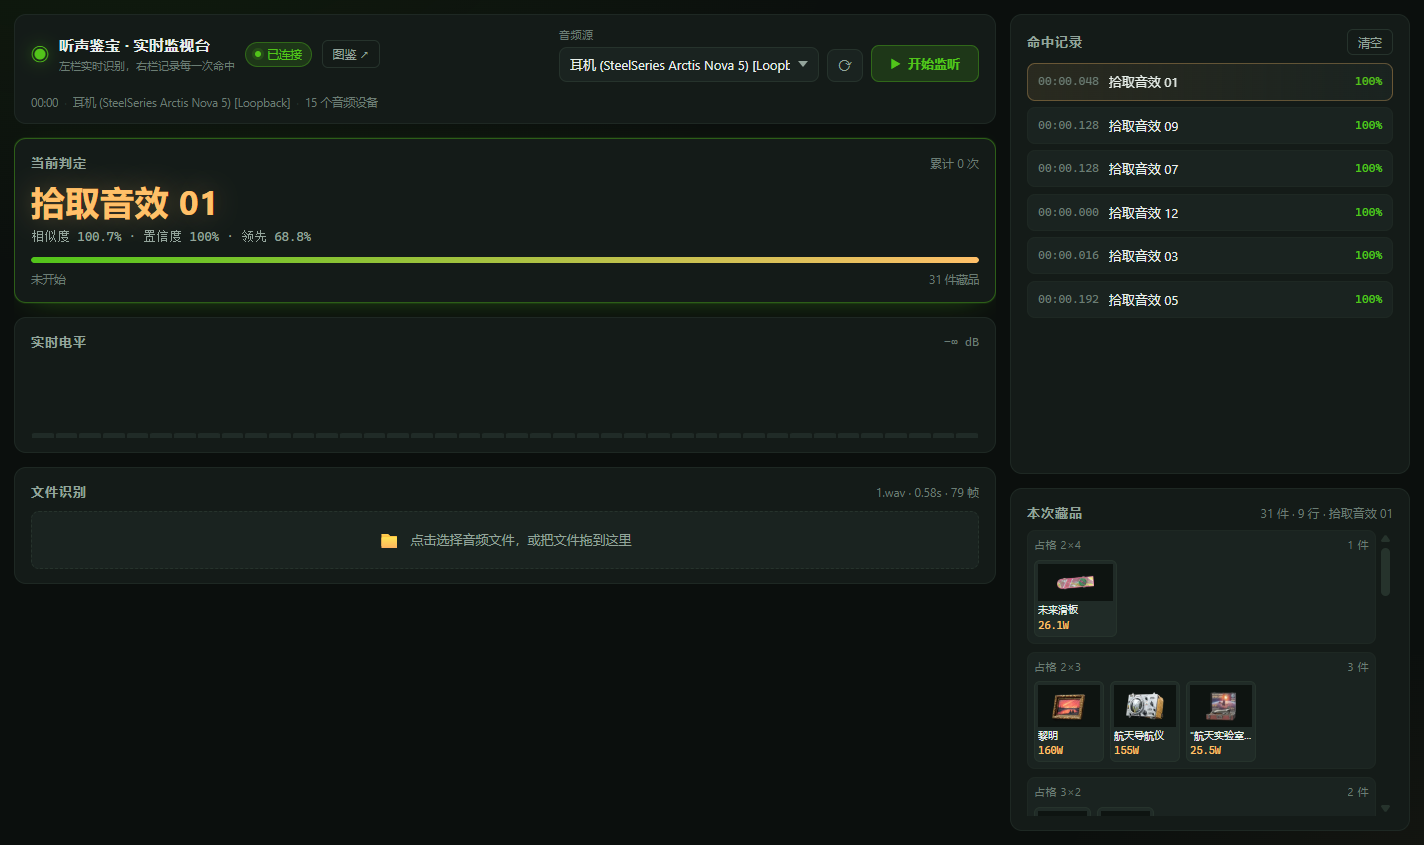
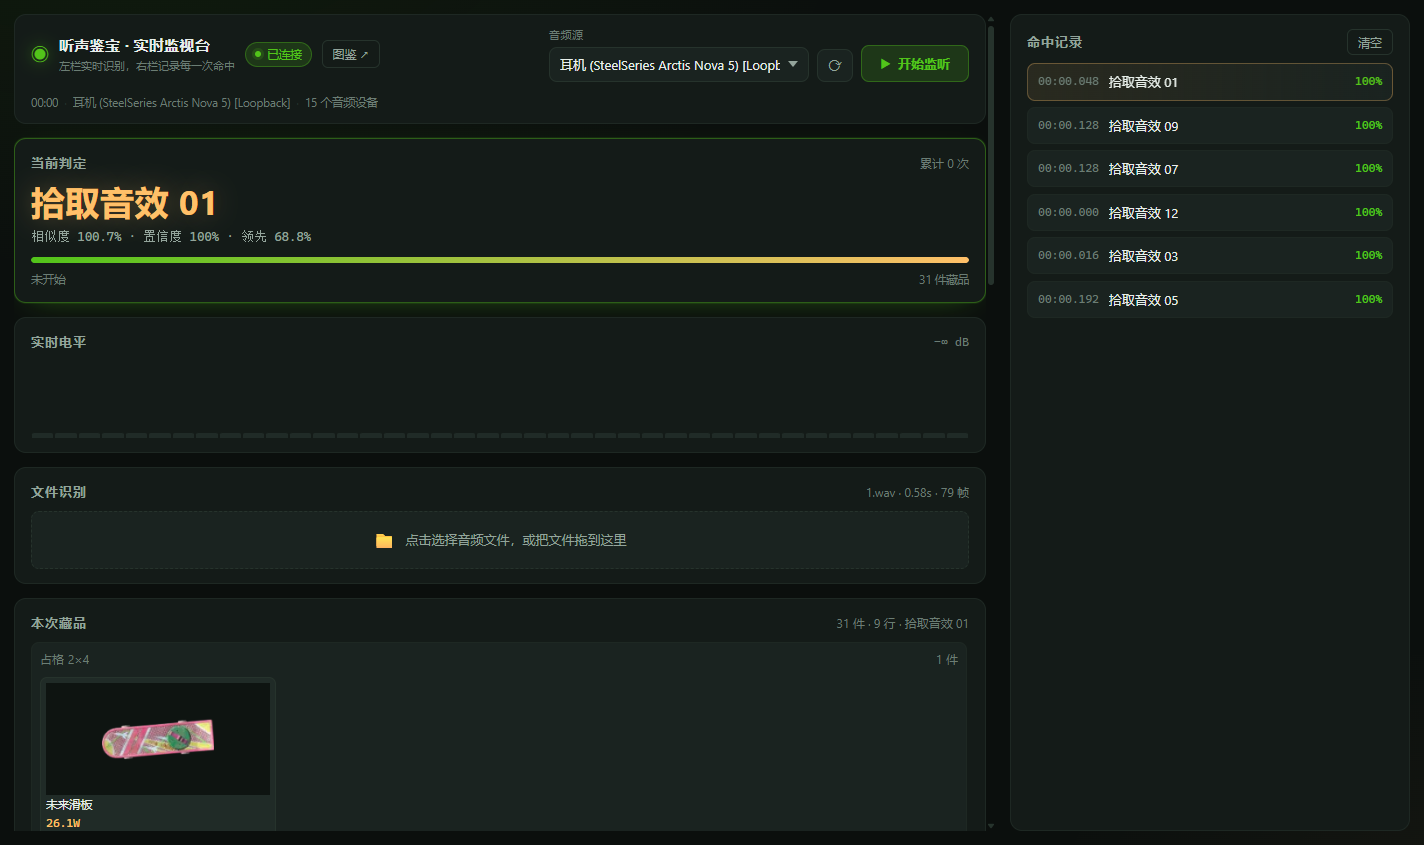
监视台：本次藏品搬到左栏并按占格等比放大
用户反馈「本次藏品放不太清楚」——根因是面板挤在 400px 右栏里，
卡片宽度写死 44+(cols-1)*13 像素，最大的 2x4 也只有 83px。

- live.html：本次藏品从右栏移到左栏文件识别下面，右栏只留命中记录
- live.css：新增 --stash-unit（左栏 56px / 窄屏 30px）作为「一个占格的边长」，
  卡片宽度改由 calc() 按占格算，2x4 变成 236px 宽、3x2 是 124x217，
  和游戏背包里的形状比例一致
- live.js：buildStashTile 用 calc(var(--stash-unit) * cols + 12px)，
  12px 是内边距 5+5 加边框 1+1
- index.html：图鉴页同样把本次藏品挪到文件识别下面，两端观感对齐
- tests/live_page_e2e.mjs：删掉「右栏从上到下 hits -> stash」这条已失效的断言，
  换成「右栏只剩命中记录」「藏品面板在文件识别下方且 --stash-unit >= 40px」
- README：新增第 7 条坑（藏品卡按占格单位放大，别写死像素），
  更新界面表、目录树、接口表、测试说明；补 docs/screenshots/live-stash.png

diff --git a/listen_treasure/ui/live.css b/listen_treasure/ui/live.css
@@ -619,11 +619,9 @@ body {
   white-space: nowrap;
 }
 
-/* ==================== 右栏：本次藏品 ==================== */
+/* ==================== 本次藏品（左栏，文件识别下面） ==================== */
 .stash-panel {
-  flex: 0 1 auto;
-  min-height: 120px;
-  max-height: 42%;
+  flex: 0 0 auto;
   display: flex;
   flex-direction: column;
   overflow: hidden;
@@ -631,25 +629,28 @@ body {
 
 .stash-panel .panel-head {
   flex: 0 0 auto;
-  margin-bottom: 8px;
+  margin-bottom: 10px;
 }
 
+/*
+ * --stash-unit 是「图鉴里一个小占格的边长」。卡片按真实占格等比放大：
+ * 占格 2×4 就是 4 格宽 2 格高，和游戏背包里看到的形状一致。
+ * 这一栏有一千来像素宽，用这个尺寸缩略图才看得清（原先挤在 400px 右栏里只有 44px）。
+ */
 .stash-rows {
-  flex: 1 1 auto;
-  min-height: 0;
-  overflow-y: auto;
-  overflow-x: hidden;
+  --stash-unit: 56px;
+  flex: 0 0 auto;
   display: flex;
   flex-direction: column;
-  gap: 8px;
+  gap: 10px;
   padding-right: 2px;
 }
 
 .stash-empty {
   margin: 0;
-  padding: 12px 4px;
+  padding: 16px 8px;
   color: var(--text-mute);
-  font-size: 12.5px;
+  font-size: 13px;
   line-height: 1.6;
   text-align: center;
   border: 1px dashed var(--line-soft);
@@ -660,9 +661,9 @@ body {
 .stash-row {
   display: flex;
   flex-wrap: wrap;
-  align-items: flex-end;
-  gap: 6px;
-  padding: 6px;
+  align-items: flex-start;
+  gap: 8px;
+  padding: 8px;
   border: 1px solid var(--line-soft);
   border-radius: var(--radius-sm);
   background: var(--panel-2);
@@ -675,7 +676,7 @@ body {
   align-items: center;
   justify-content: space-between;
   gap: 8px;
-  font-size: 11px;
+  font-size: 11.5px;
   color: var(--text-mute);
   letter-spacing: 0.5px;
   min-width: 0;
@@ -694,9 +695,9 @@ body {
   max-width: 100%;
   display: flex;
   flex-direction: column;
-  gap: 2px;
-  padding: 3px;
-  border-radius: 6px;
+  gap: 3px;
+  padding: 5px;
+  border-radius: 7px;
   border: 1px solid var(--line);
   background: var(--panel-3);
   overflow: hidden;
@@ -704,9 +705,9 @@ body {
 }
 
 /*
- * 缩略图：136 张图里九成是正方形，而卡片框按占格变形（2×1 是 55×27.5）。
- * 用 cover 会把正方形裁成一条，用 contain 才是「整件藏品都看得见」；
- * 底色要和原图一样是深色，因为原图是透明底 PNG 转的 webp。
+ * 缩略图：136 张图里九成是正方形，而卡片框按占格变形（2×4 是 4 格宽 2 格高）。
+ * 用 contain 才是「整件藏品都看得见」；底色要和原图一样是深色，
+ * 因为原图是透明底 PNG 转的 webp。
  */
 .stash-tile .ti {
   display: block;
@@ -722,25 +723,24 @@ body {
   align-items: center;
   justify-content: center;
   color: var(--text-mute);
-  font-size: 12px;
+  font-size: 14px;
 }
 
 .stash-tile .ti[data-ph="true"]::after {
   content: "?";
 }
 
-/* 名字和价值放在图下面，不再压在图上：2×1 的卡片只有 27px 高，压上去就看不见图了 */
 .stash-tile .tv {
   color: var(--gold);
   font-family: var(--mono);
-  font-size: 10.5px;
-  line-height: 15px;
+  font-size: 11.5px;
+  line-height: 16px;
   white-space: nowrap;
 }
 
 .stash-tile .tn {
-  font-size: 10px;
-  line-height: 1.25;
+  font-size: 11.5px;
+  line-height: 1.3;
   color: var(--text);
   overflow: hidden;
   text-overflow: ellipsis;
@@ -855,8 +855,9 @@ body {
     overflow-y: auto;
   }
 
+  /* 手机上一屏只有 390px 宽，一格的边长要跟着缩，否则一行放不下两件 */
   .stash-rows {
-    overflow-y: visible;
+    --stash-unit: 30px;
   }
 
   .panel {

diff --git a/listen_treasure/ui/index.html b/listen_treasure/ui/index.html
@@ -127,19 +127,6 @@
           <div class="verdict-bar"><i id="verdict-bar-fill"></i></div>
         </section>
 
-        <!-- 本次藏品：按占格分组，同占格排一行，价值从高到低 -->
-        <section class="panel stash-panel" id="stash-panel" data-has="false">
-          <div class="panel-head">
-            <h2>本次藏品</h2>
-            <span class="panel-hint" id="stash-hint">等待识别</span>
-          </div>
-          <div class="stash-rows" id="stash-rows">
-            <p class="stash-empty" id="stash-empty">
-              识别到音效后，这里按占格分组列出藏品：同一占格的排一行，行内价值从高到低。
-            </p>
-          </div>
-        </section>
-
         <!-- 文件识别 -->
         <section class="panel">
           <div class="panel-head">
@@ -154,6 +141,19 @@
           <div class="file-progress" id="file-progress" hidden>
             <div class="fp-bar"><i id="fp-fill"></i></div>
             <p class="fp-text" id="fp-text">识别中…</p>
+          </div>
+        </section>
+
+        <!-- 本次藏品：按占格分组，同占格排一行，价值从高到低 -->
+        <section class="panel stash-panel" id="stash-panel" data-has="false">
+          <div class="panel-head">
+            <h2>本次藏品</h2>
+            <span class="panel-hint" id="stash-hint">等待识别</span>
+          </div>
+          <div class="stash-rows" id="stash-rows">
+            <p class="stash-empty" id="stash-empty">
+              识别到音效后，这里按占格分组列出藏品：同一占格的排一行，行内价值从高到低。
+            </p>
           </div>
         </section>
 

diff --git a/listen_treasure/ui/live.html b/listen_treasure/ui/live.html
@@ -91,9 +91,22 @@
           hidden
         />
       </section>
+
+      <!-- 本次藏品：放在文件识别下面，占满左栏宽度，缩略图才看得清 -->
+      <section class="panel stash-panel" id="stash-panel" data-has="false">
+        <div class="panel-head">
+          <h2>本次藏品</h2>
+          <span class="panel-hint" id="stash-hint">等待识别</span>
+        </div>
+        <div class="stash-rows" id="stash-rows">
+          <p class="stash-empty" id="stash-empty">
+            识别到音效后，这里按占格分组列出藏品：同一占格的排一行，行内价值从高到低。
+          </p>
+        </div>
+      </section>
     </div>
 
-    <!-- ============ 右栏：命中记录（上）+ 本次藏品（下） ============ -->
+    <!-- ============ 右栏：命中记录 ============ -->
     <div class="live-col live-right" id="right-col">
       <section class="panel hits-panel" id="hits-panel">
         <div class="panel-head">
@@ -105,18 +118,6 @@
         <ul class="hits-list" id="hits-list">
           <li class="hits-empty" id="hits-empty">还没有命中…</li>
         </ul>
-      </section>
-
-      <section class="panel stash-panel" id="stash-panel" data-has="false">
-        <div class="panel-head">
-          <h2>本次藏品</h2>
-          <span class="panel-hint" id="stash-hint">等待识别</span>
-        </div>
-        <div class="stash-rows" id="stash-rows">
-          <p class="stash-empty" id="stash-empty">
-            识别到音效后，这里按占格分组列出藏品：同一占格的排一行，行内价值从高到低。
-          </p>
-        </div>
       </section>
     </div>
 

diff --git a/listen_treasure/ui/live.js b/listen_treasure/ui/live.js
@@ -172,7 +172,10 @@ function buildStashTile(item, index) {
   tile.dataset.name = item && item.name ? String(item.name) : "";
   tile.dataset.size = item && item.size ? String(item.size) : "";
   tile.dataset.value = String((item && item.value) || 0);
-  tile.style.width = `${44 + (slot.cols - 1) * 13}px`;
+  // 卡片按占格等比放大：占格 2×4 就是 4 格宽 2 格高，和游戏背包里看到的一致。
+  // 一格的边长由 live.css 的 --stash-unit 定（左栏 56px、窄屏 30px），
+  // 后面加的 12px 是卡片自己的左右内边距（5+5）和边框（1+1）。
+  tile.style.width = `calc(var(--stash-unit, 56px) * ${slot.cols} + 12px)`;
   tile.title = `${(item && item.name) || "藏品"} · ${(item && item.size) || "占格 1×1"} · `
     + `价值 ${formatValue((item && item.value) || 0)}`;
 
